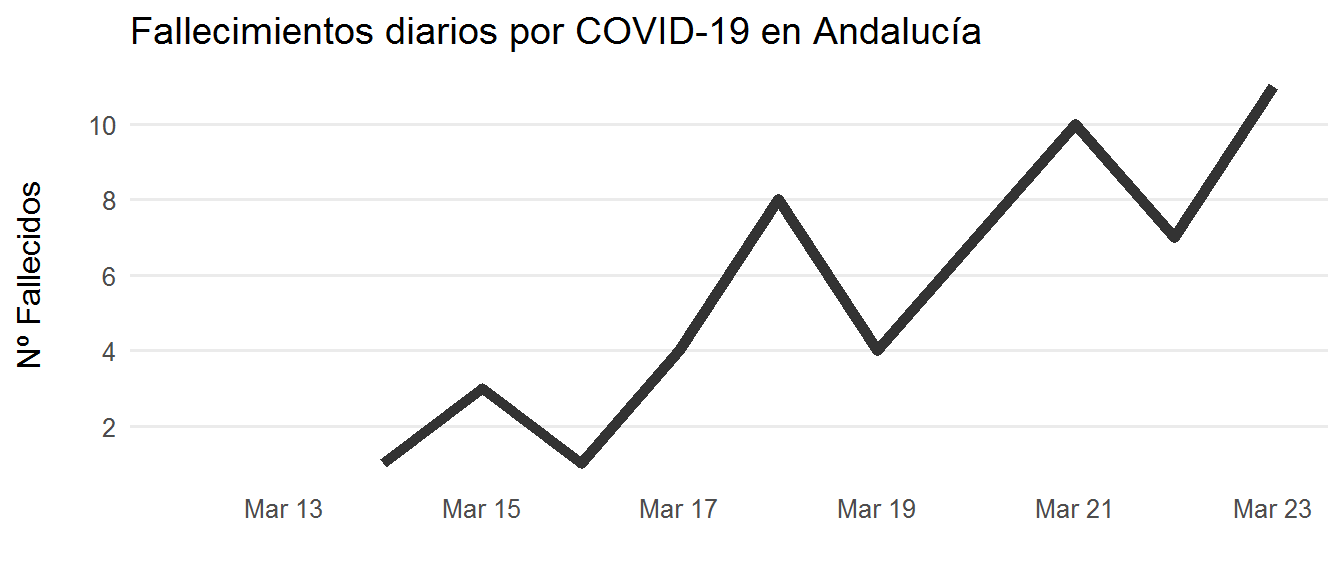
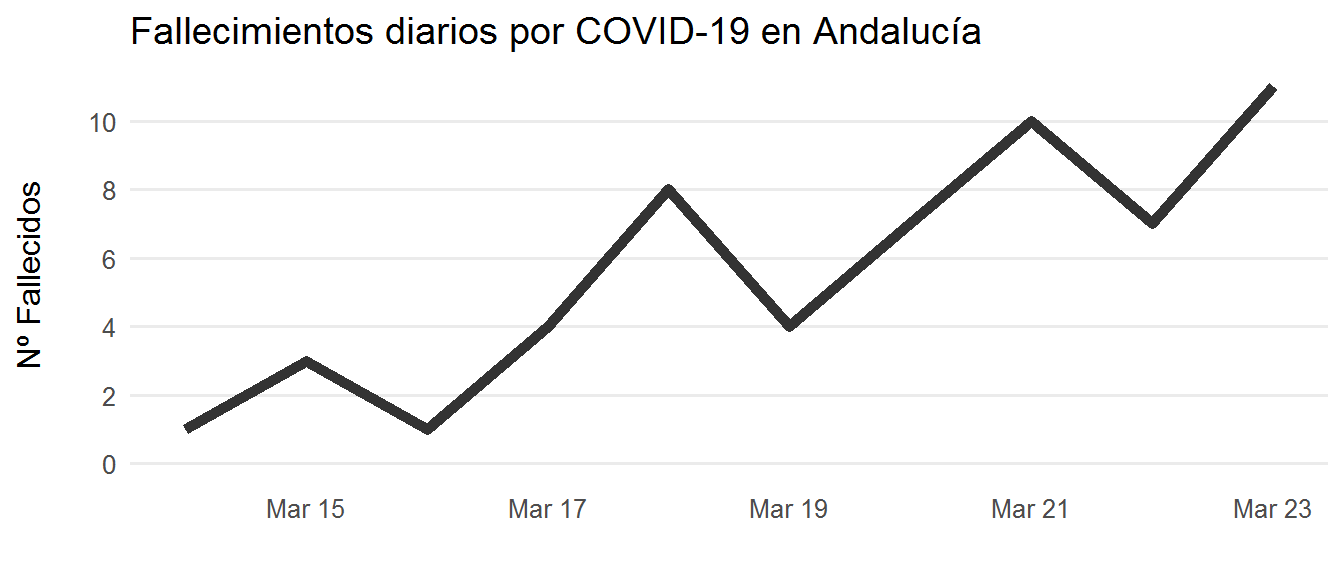
fallecidos: omit first days with NA

diff --git a/evolucion-coronavirus-andalucia.html b/evolucion-coronavirus-andalucia.html
@@ -214,7 +214,7 @@ summary {
 <div id="personas-ingresadas-en-centros-sanitarios" class="section level2">
 <h2>Personas ingresadas en centros sanitarios</h2>
 <p><br></p>
-<p>Número neto de personas que permanecen ingresadas en centros sanitarios de Andalucía cada día, teniendo en cuenta los nuevos ingresos así como las altas hospitalarias.</p>
+<p>Número neto de personas que permanecen ingresadas en centros sanitarios de Andalucía cada día, teniendo en cuenta tanto los nuevos ingresos como las altas hospitalarias.</p>
 <p><br></p>
 <p><img src="evolucion-coronavirus-andalucia_files/figure-html/ingresados_Andalucía-1.png" width="100%" /></p>
 <p><br> <br></p>
@@ -227,6 +227,7 @@ summary {
 <p><img src="evolucion-coronavirus-andalucia_files/figure-html/fallecidos_Andalucia-1.png" width="100%" /></p>
 <p><br> <br></p>
 <p><img src="evolucion-coronavirus-andalucia_files/figure-html/fallecidos_provincias-1.png" width="100%" /></p>
+<p>Realizado por <a href="https://twitter.com/frod_san">Francisco Rodríguez Sánchez</a> y Manuel Rodríguez Brea, a partir de los <a href="(https://www.juntadeandalucia.es/organismos/saludyfamilias/areas/salud-vida/paginas/Nuevo_Coronavirus.html)">datos</a> ofrecidos por la Consejería de Salud y Familias de la Junta de Andalucía.</p>
 </div>
 
 
